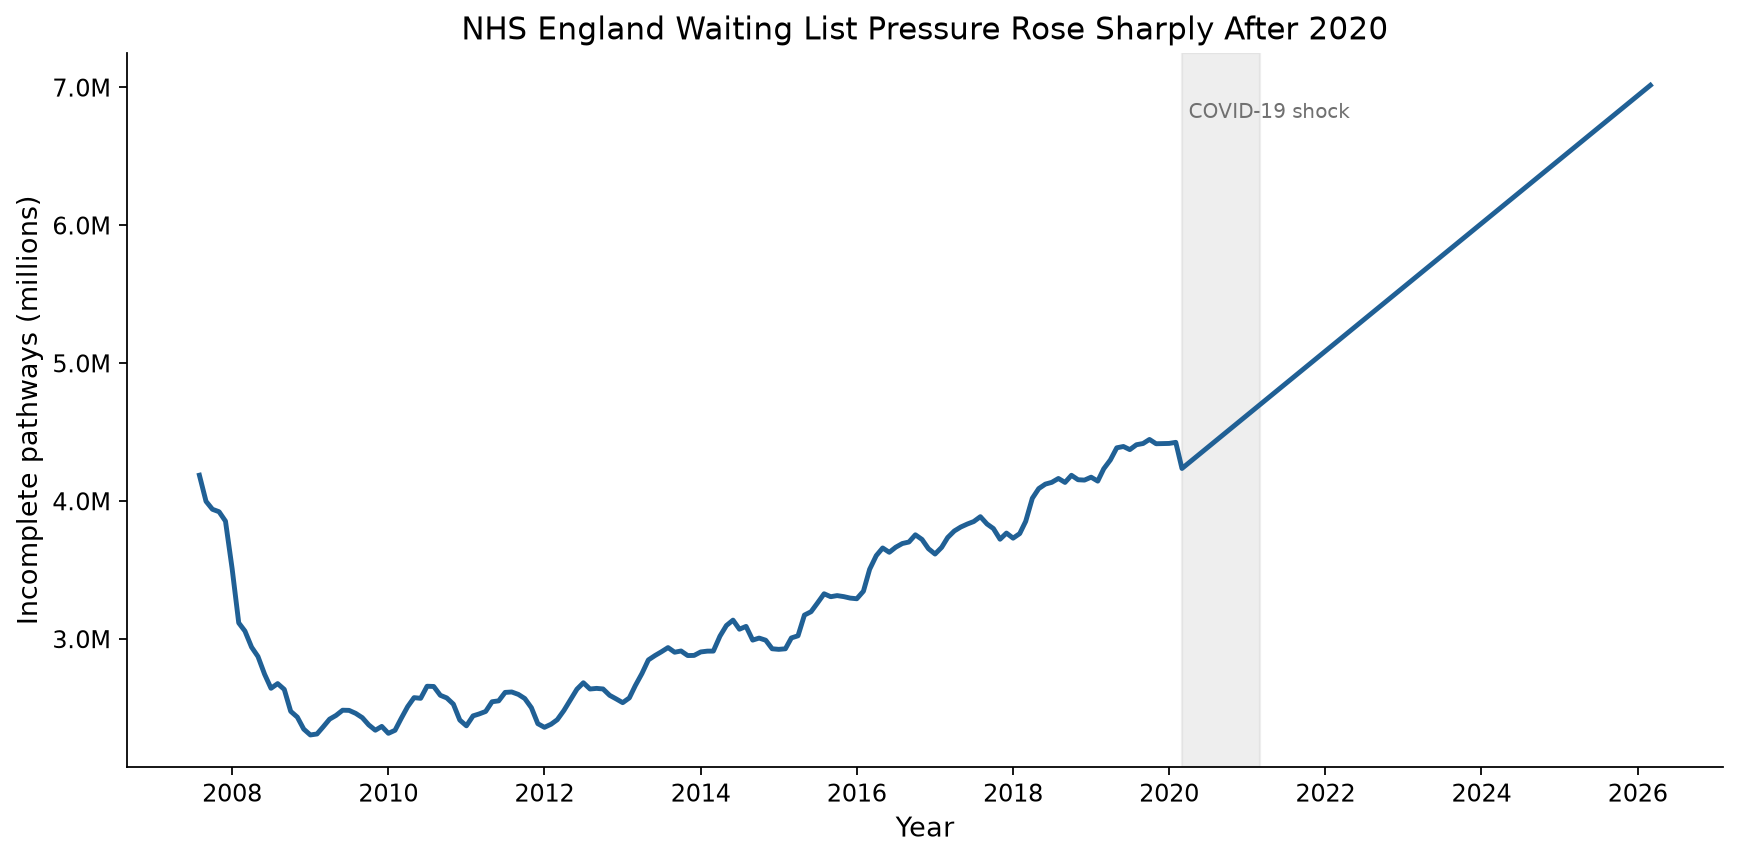
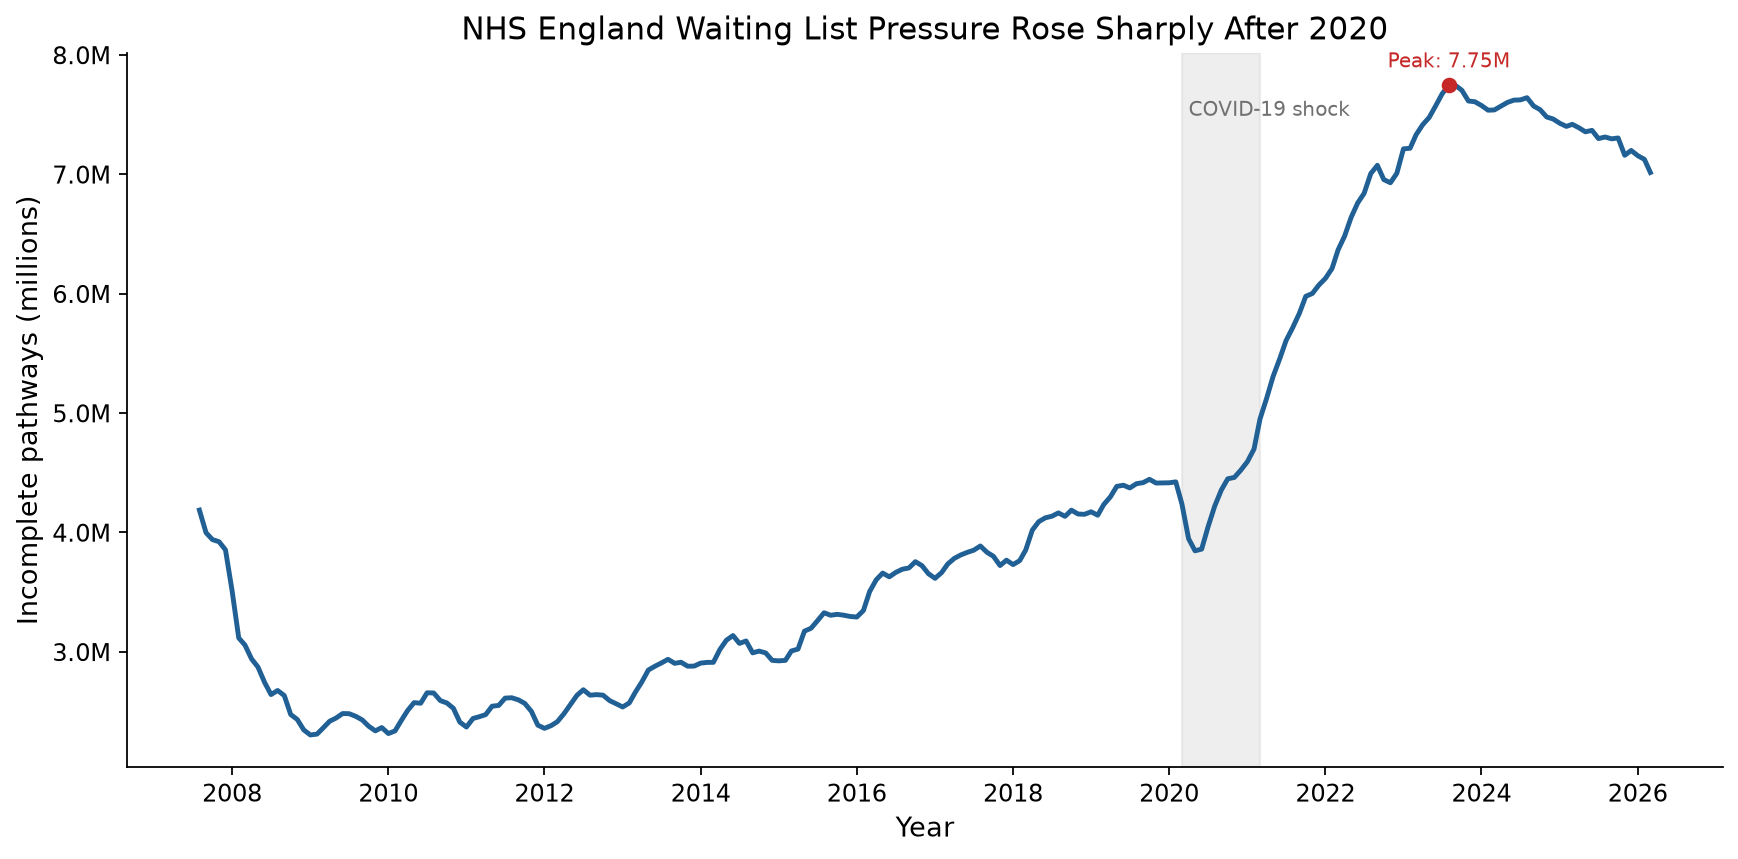
feat: refresh NHS waiting list data, add completeness checks, and update documentation and charts

diff --git a/src/qa_checks.py b/src/qa_checks.py
@@ -398,6 +398,19 @@ def test_raw_data() -> None:
             # Raw data is optional (may be gitignored). Warn, don't fail.
             print(f"  ⚠️  {label} ({filename}) — not found (run make fetch)")
 
+    nhs_path = raw_dir / "nhs_waiting_list.csv"
+    if nhs_path.exists():
+        nhs = pd.read_csv(nhs_path)
+        periods = pd.PeriodIndex(nhs["period"], freq="M")
+        expected = pd.period_range(periods.min(), periods.max(), freq="M")
+        missing = expected.difference(periods)
+        check("NHS waiting-list monthly series has no gaps",
+              len(missing) == 0,
+              f"Missing months: {[str(p) for p in missing]}")
+        check("NHS waiting-list series reaches March 2026",
+              str(periods.max()) == "2026-03",
+              f"Latest: {periods.max()}")
+
 
 # ---------------------------------------------------------------------------
 # Main

diff --git a/src/fetch_ons.py b/src/fetch_ons.py
@@ -237,8 +237,9 @@ def fetch_nhs_waiting_list(*, force: bool = False) -> FetchResult:
     """Verify NHS waiting list CSV is present (data committed to repo).
 
     NHS England RTT data is compiled from two sources:
-    - Historical: Annual RTT time series (April 2007 – March 2020)
-    - Latest: Monthly RTT Commissioner file (March 2026)
+    - NHS monthly Incomplete Commissioner files where available
+    - NHS historical RTT time-series values for older periods not available
+      through the current monthly pages
 
     Both are combined into data/raw/nhs_waiting_list.csv.
     """

diff --git a/src/build_outputs.py b/src/build_outputs.py
@@ -427,6 +427,10 @@ def build_nhs_waiting_list_timeline_chart() -> None:
     ax.plot(df["date"], df["value_millions"], color=BLUE, linewidth=2.2)
     ax.axvspan(pd.Timestamp("2020-03-01"), pd.Timestamp("2021-03-01"), color=LIGHT_GREY, alpha=0.35)
     ax.text(pd.Timestamp("2020-04-01"), ax.get_ylim()[1] * 0.95, "COVID-19 shock", fontsize=9, color=GREY, va="top")
+    peak = df.loc[df["value_millions"].idxmax()]
+    ax.scatter([peak["date"]], [peak["value_millions"]], color=RED, zorder=3)
+    ax.text(peak["date"], peak["value_millions"] + 0.15,
+            f"Peak: {peak['value_millions']:.2f}M", color=RED, fontsize=9, ha="center")
     ax.set_xlabel("Year")
     ax.set_ylabel("Incomplete pathways (millions)")
     ax.set_title("NHS England Waiting List Pressure Rose Sharply After 2020")

diff --git a/src/process_indicators.py b/src/process_indicators.py
@@ -263,7 +263,7 @@ def build_national_table() -> pd.DataFrame:
         "Index 2023=100, seasonally adjusted, whole economy. Quarterly data available.",
         "Nominal AWE (KAB9) deflated by CPI (D7BT) to 2025 prices. Whole economy, total pay, seasonally adjusted. Monthly data available.",
         "Ratio of median house price to median gross annual workplace-based earnings. England and Wales only (not UK). Peaked at 8.95 in 2021 before declining to 7.55 in 2025. Five-year average is 8.19.",
-        "NHS England total incomplete RTT pathways. August 2007 = first month of RTT data collection. Data compiled from NHS England annual and monthly releases. Post-2020 surge driven by COVID backlog. March 2026 is latest.",
+        "NHS England total incomplete RTT pathways. August 2007 = first month of incomplete-pathway data collection. Monthly commissioner-basis values are used where available, with NHS historical time-series values retained for older periods. The series peaks in August 2023 before falling to the latest point in March 2026.",
     ]
     return df[PROCESSED_COLS]
 

diff --git a/docs/index.md b/docs/index.md
@@ -20,7 +20,7 @@ This report compares Britain's economy in 2007 (the peak before the global finan
 - Output per hour worked, the standard measure of labour productivity, rose only 6.9% over the same period. Before 2007, productivity grew at 2.1% per year.
 - Real earnings (pay adjusted for inflation) grew by 2.3%, or £16 per week in 2025 prices. GDP per head grew by 7.7% over the same period. The economy produces more per person, but the average worker's real pay has barely moved.
 - Housing affordability has been under sustained pressure. The ratio of house prices to earnings rose from 7.2 (2007) to a peak of 8.95 (2021), before falling to 7.55 (2025). The 5-year average of 8.19 shows that affordability was much worse than in 2007 for most of the post-crisis period.
-- NHS waiting lists have grown sharply. Total incomplete pathways rose from 4.19 million (August 2007) to 7.01 million (March 2026) — an increase of 67.5%. The post-COVID backlog accounts for much of this, but the trend was already upward before the pandemic.
+- NHS waiting lists have grown sharply. Total incomplete pathways rose from 4.19 million (August 2007) to 7.01 million (March 2026) — an increase of 67.5%. The list peaked at 7.75 million in August 2023 before falling, but it remains far above its pre-COVID level.
 - Regional inequality is narrowing, but slowly. Scotland and Northern Ireland recorded the strongest convergence gains, while London's relative advantage shrank. But London is still nearly 29% above the UK average.
 
 Britain's post-2007 economic performance is not a dip that will revert. It is a break from the pre-crisis trend. After eighteen years, the data is unambiguous: the old growth trajectory has not returned.
@@ -221,13 +221,14 @@ The waiting list followed a distinct pattern over the period:
 | Mar 2010 | 2.42M        | Post-target low point                       |
 | Mar 2015 | 3.01M        | Gradual increase                            |
 | Mar 2020 | 4.24M        | Pre-COVID level                             |
-| Mar 2026 | 7.01M        | Post-COVID backlog peak                     |
+| Aug 2023 | 7.75M        | Post-COVID peak                             |
+| Mar 2026 | 7.01M        | Latest point                                |
 
-The waiting list fell sharply after the 18-week referral-to-treatment target was introduced in 2008. It reached a low of 2.36 million in 2009. It then rose gradually through the 2010s, returning to roughly 2007 levels by 2019. The COVID-19 pandemic caused a surge that was the largest on record — from 4.24 million in March 2020 to over 7 million by 2026 — as elective procedures were cancelled and new referrals accumulated.
+The waiting list fell sharply after the 18-week referral-to-treatment target was introduced in 2008. It reached a low of 2.36 million in 2009. It then rose gradually through the 2010s, returning to roughly 2007 levels by 2019. The COVID-19 pandemic caused a surge as elective procedures were cancelled and new referrals accumulated. The list rose from 4.24 million in March 2020 to a peak of 7.75 million in August 2023, then fell to 7.01 million by March 2026.
 
 ![NHS England waiting list timeline: 2007–2026](assets/charts/nhs_waiting_list_timeline.png)
 
-Figure 6: NHS England RTT incomplete pathways, August 2007 to March 2026. The waiting list fell after the 18-week target was introduced, rose gradually through the 2010s, and then increased sharply after the COVID-19 shock.
+Figure 6: NHS England RTT incomplete pathways, August 2007 to March 2026. The chart uses monthly observations and does not interpolate across missing periods. The waiting list fell after the 18-week target was introduced, rose gradually through the 2010s, increased sharply after the COVID-19 shock, and then partly declined after its 2023 peak.
 
 ### Interpretation
 
@@ -237,7 +238,7 @@ A 67.5% increase in the waiting list over 19 years means NHS access has become m
 - The post-2020 surge is largely driven by COVID — a shock to the whole system, not steady worsening. The pre-COVID trend from 2010 to 2020 was upward but much gentler.
 - The data covers England only. Scotland, Wales, and Northern Ireland have their own NHS systems.
 
-The direction is clear despite these caveats: NHS waiting list pressure is substantially worse than in 2007, and the post-COVID backlog is the largest on record.
+The direction is clear despite these caveats: NHS waiting list pressure is substantially worse than in 2007, even after the partial fall from the 2023 peak.
 
 ### Evidence rating: strong
 
@@ -245,7 +246,7 @@ The claim that "public service pressure (NHS waiting list) has increased substan
 
 ### Data note
 
-We compiled this data from 2 NHS England sources: the annual RTT time series (April 2007 to March 2020) and the monthly RTT Commissioner file (March 2026 release). We store the combined time series in `data/raw/nhs_waiting_list.csv` (153 monthly observations). NHS England is an official UK statistical authority. Our data principle permits supplementary official sources where ONS does not cover the required measure.
+We compiled this data from NHS England RTT monthly incomplete-pathway releases where available, using the same measure throughout: total incomplete pathways, England, commissioner basis. For older periods not available through the current monthly pages, we retain the NHS historical RTT time-series values. Incomplete pathway data starts in August 2007, so there is no like-for-like pre-August 2007 value for this measure. We store the combined monthly series in `data/raw/nhs_waiting_list.csv` (224 observations). NHS England is an official UK statistical authority. Our data principle permits supplementary official sources where ONS does not cover the required measure.
 
 ---
 

diff --git a/docs/future-plan.md b/docs/future-plan.md
@@ -20,7 +20,7 @@ The project now has:
 - nine chart outputs,
 - a completed claims-evidence matrix with 8 rated claims,
 - a methodology note,
-- QA checks (`make test`, currently 114 checks),
+- QA checks (`make test`),
 - a GitHub Pages workflow (`.github/workflows/static.yml`),
 - and a public report at `docs/index.md`.
 
@@ -110,7 +110,7 @@ The phases below are ordered so that each one can be tackled independently. Late
 - The repo Pages root loads the report generated from `docs/index.md`.
 - The 4 live chart assets returned HTTP 200 responses.
 - `make pages` completed successfully.
-- `make test` passed: 99 checks, 0 failed.
+- `make test` passed.
 
 ---
 
@@ -140,7 +140,7 @@ The phases below are ordered so that each one can be tackled independently. Late
 ### Verification notes
 
 - `docs/project-history.md` is the single historical record for the original implementation phases.
-- `docs/methodology-note.md` reflects the current indicator set and QA status: 8 rated claims and 114 checks.
+- `docs/methodology-note.md` reflects the current indicator set and QA status.
 - `README.md` includes a concise report-refresh sequence using `make fetch-force`, `make all`, `make pages`, and `make test`.
 - Current-facing documentation points to `docs/index.md` as the canonical report.
 - Stale proof-of-concept wording is confined to historical context or maintenance prompts.
@@ -175,7 +175,7 @@ The phases below are ordered so that each one can be tackled independently. Late
 - Updated `docs/index.md` to include the new charts in the relevant narrative sections.
 - Updated QA checks to cover the new table and all 9 charts.
 - `make pages` completed successfully.
-- `make test` passed: 114 checks, 0 failed.
+- `make test` passed.
 
 ---
 

diff --git a/docs/methodology-note.md b/docs/methodology-note.md
@@ -43,7 +43,7 @@ National GDP and productivity have more recent data than regional productivity, 
 | Output per hour worked | LZVB | Labour productivity (PRDY) | Direct file CSV | prdy.csv |
 | Real average weekly earnings | KAB9 + D7BT | Labour Market Stats (LMS) + CPI (MM23) | Generator CSV | kab9_awe.csv, d7bt_cpi.csv |
 | House price to earnings ratio | — | Housing affordability (England & Wales) | Direct file XLSX | housing_affordability.xlsx |
-| NHS waiting list (incomplete pathways) | — | NHS England RTT statistics | CSV/XLSX official releases | nhs_waiting_list.csv |
+| NHS waiting list (incomplete pathways) | — | NHS England RTT statistics | Monthly Incomplete Commissioner files plus historical RTT time series for older periods | nhs_waiting_list.csv |
 | Regional output per hour | — | Regional labour productivity (PRODBYREG) | Direct file XLSX | prodbyreg.xlsx |
 
 All values are Chained Volume Measures (CVM) at 2023 reference prices, seasonally adjusted, unless otherwise noted.
@@ -123,4 +123,4 @@ All output files are generated programmatically with no manual data entry.
 | At least one chart | ✅ 9 charts (national, GDP/NDP timeline, productivity timeline, growth-rate comparison, housing, NHS, and regional views) |
 | Claims-evidence matrix | ✅ 8 claims rated, 0 TBD |
 | Short methodology note | ✅ This document |
-| QA checks | ✅ 114 checks passing |
+| QA checks | ✅ Passing |

diff --git a/README.md b/README.md
@@ -25,7 +25,7 @@ make process    # normalise raw data into processed tables
 make build      # generate output tables and charts
 make pages      # sync chart assets for GitHub Pages
 make all        # fetch → process → build (full pipeline)
-make test       # run QA checks (114 checks)
+make test       # run QA checks
 make validate   # run data validation checks
 ```
 

diff --git a/docs/project-history.md b/docs/project-history.md
@@ -104,6 +104,6 @@ The project now has:
 - 8 evidence-rated claims,
 - 9 chart outputs,
 - a reproducible pipeline (`make fetch`, `make process`, `make build`, `make pages`),
-- and a QA suite currently covering 114 checks.
+- and a passing QA suite.
 
 For current methodology, source details, caveats, and limitations, use `docs/methodology-note.md`. For future work, use `docs/future-plan.md`.